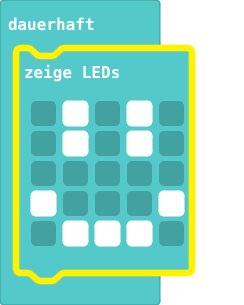
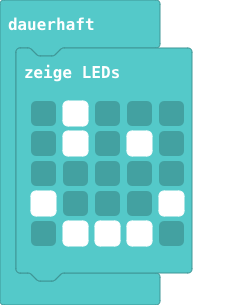
Aktualisiere main.blocks, main.ts

Changed region(s): [[0.0287, 0.118, 0.8033, 0.9443], [0.5164, 0.3246, 0.6311, 0.4426]]

diff --git a/main.ts b/main.ts
@@ -1,6 +1,6 @@
 basic.forever(function () {
     basic.showLeds(`
-        . # . # .
+        . # . . .
         . # . # .
         . . . . .
         # . . . #
